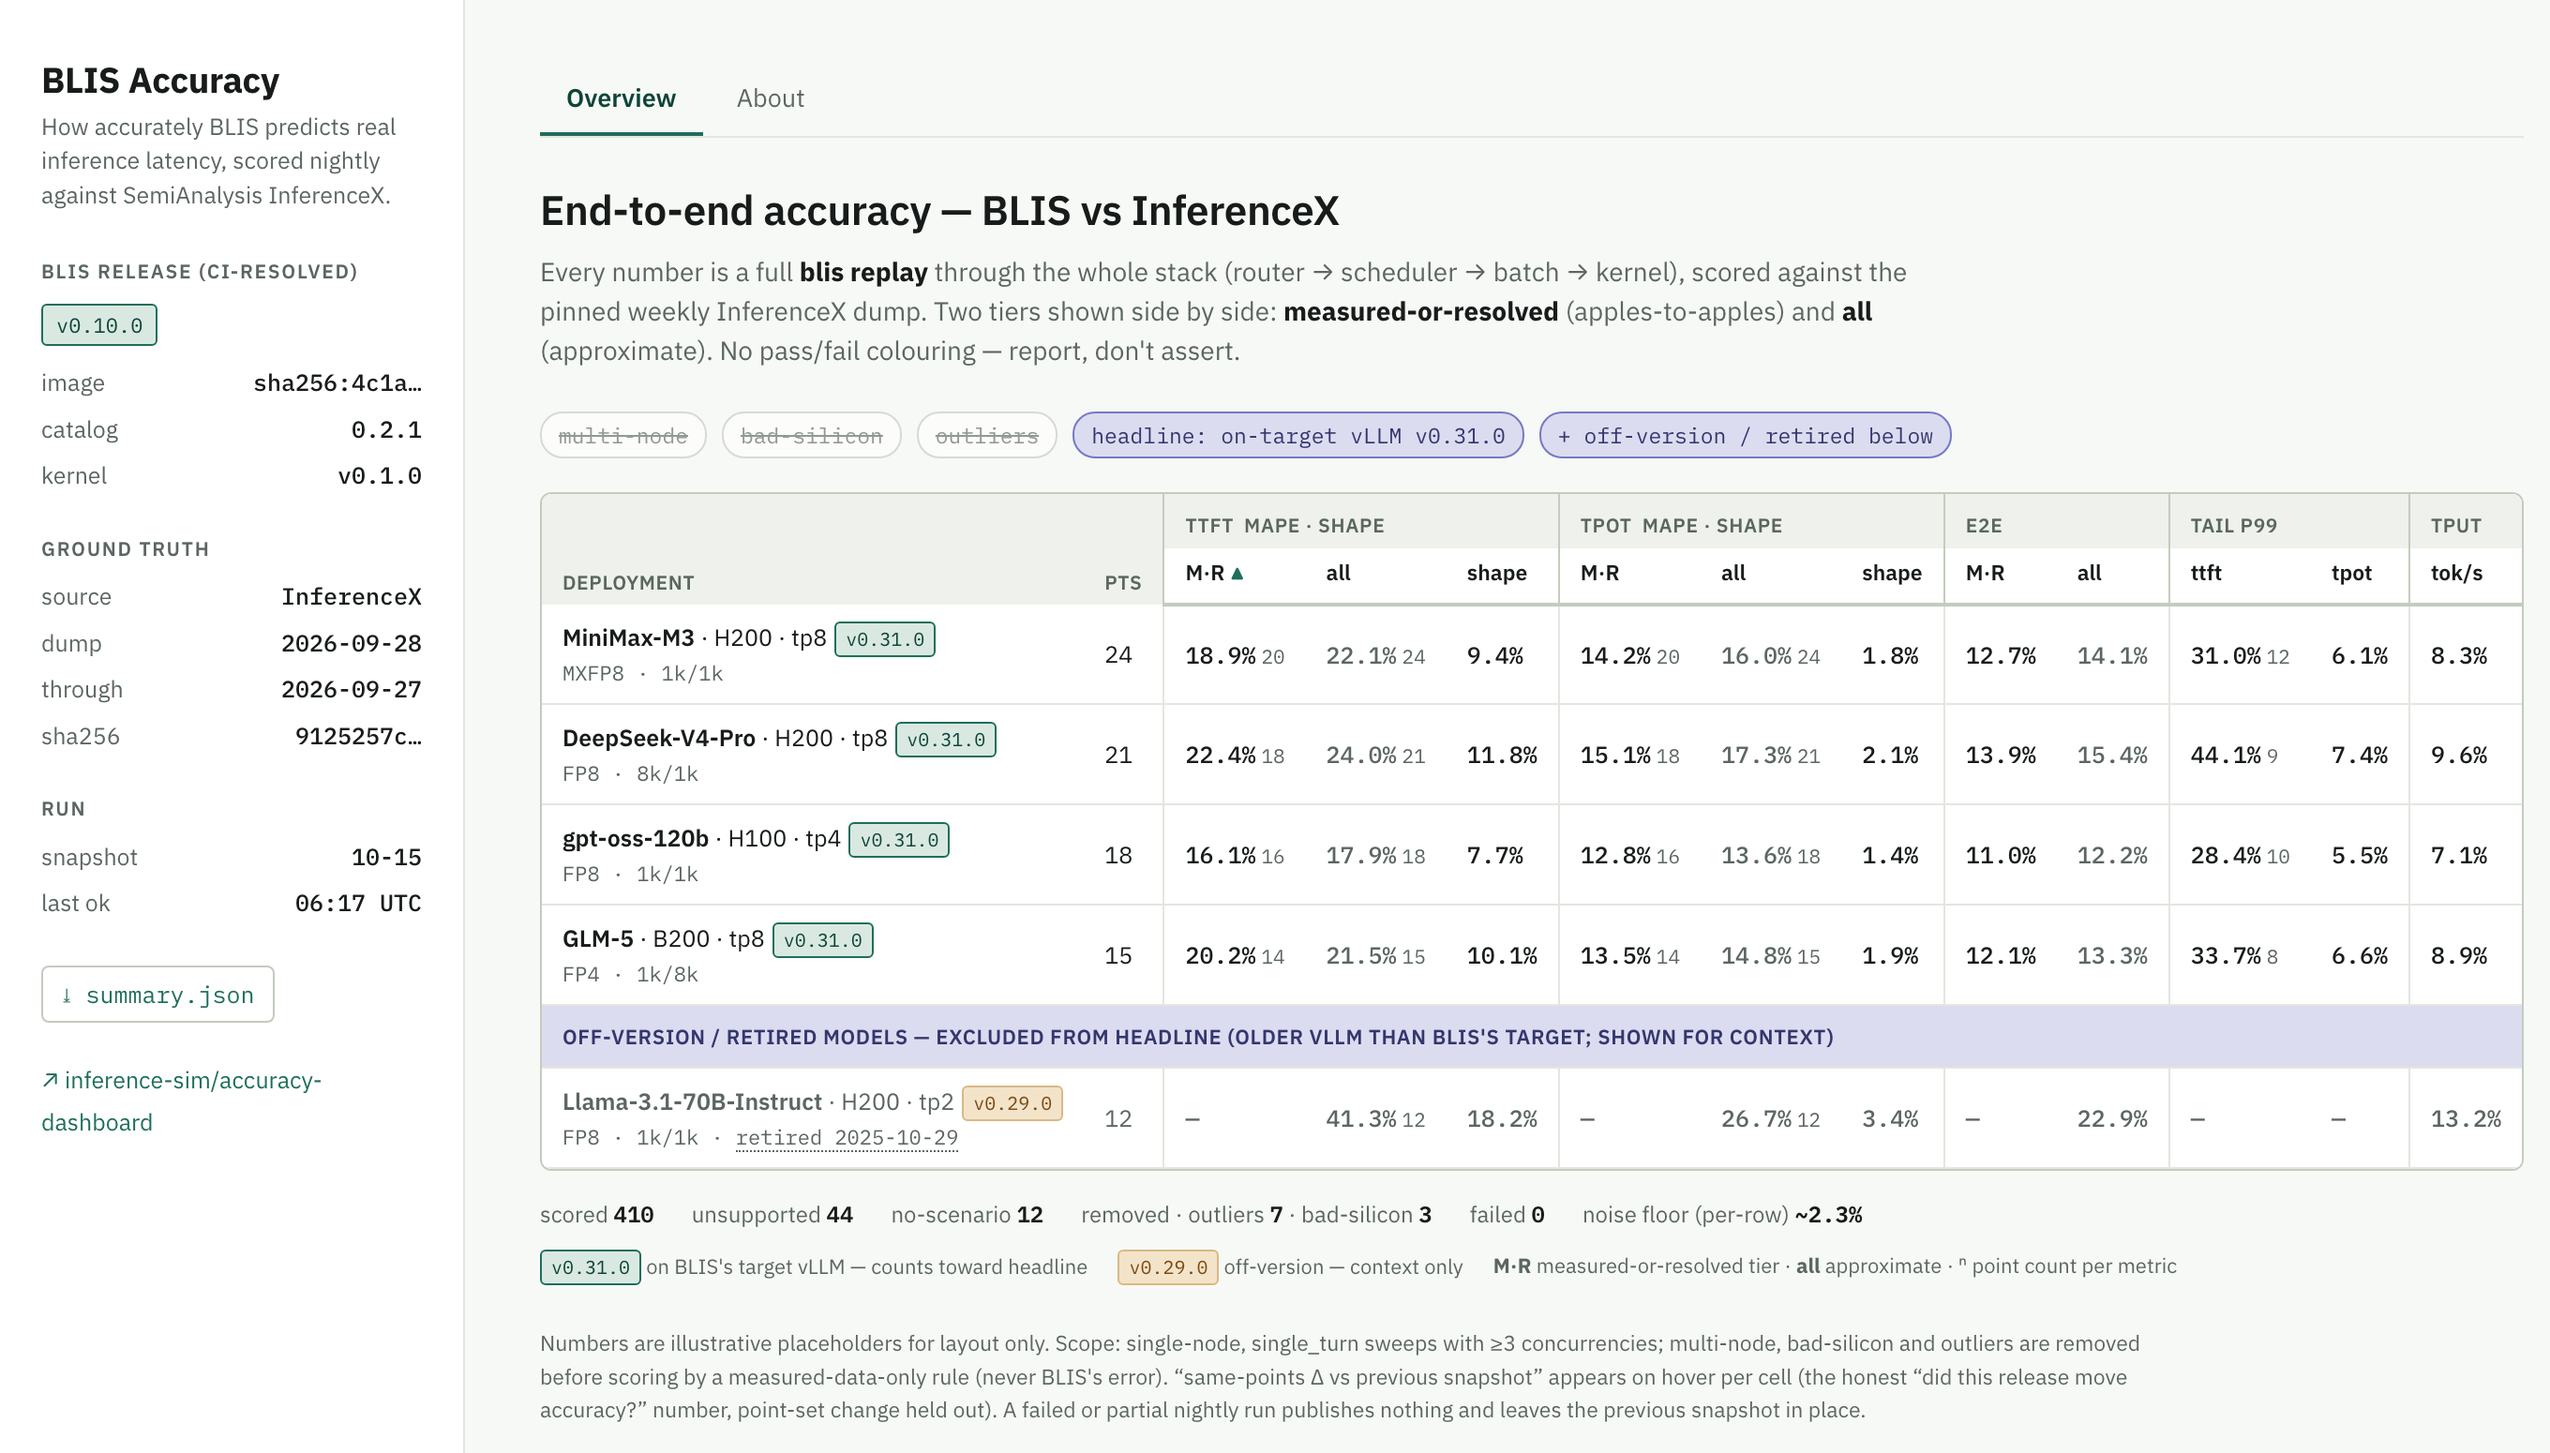
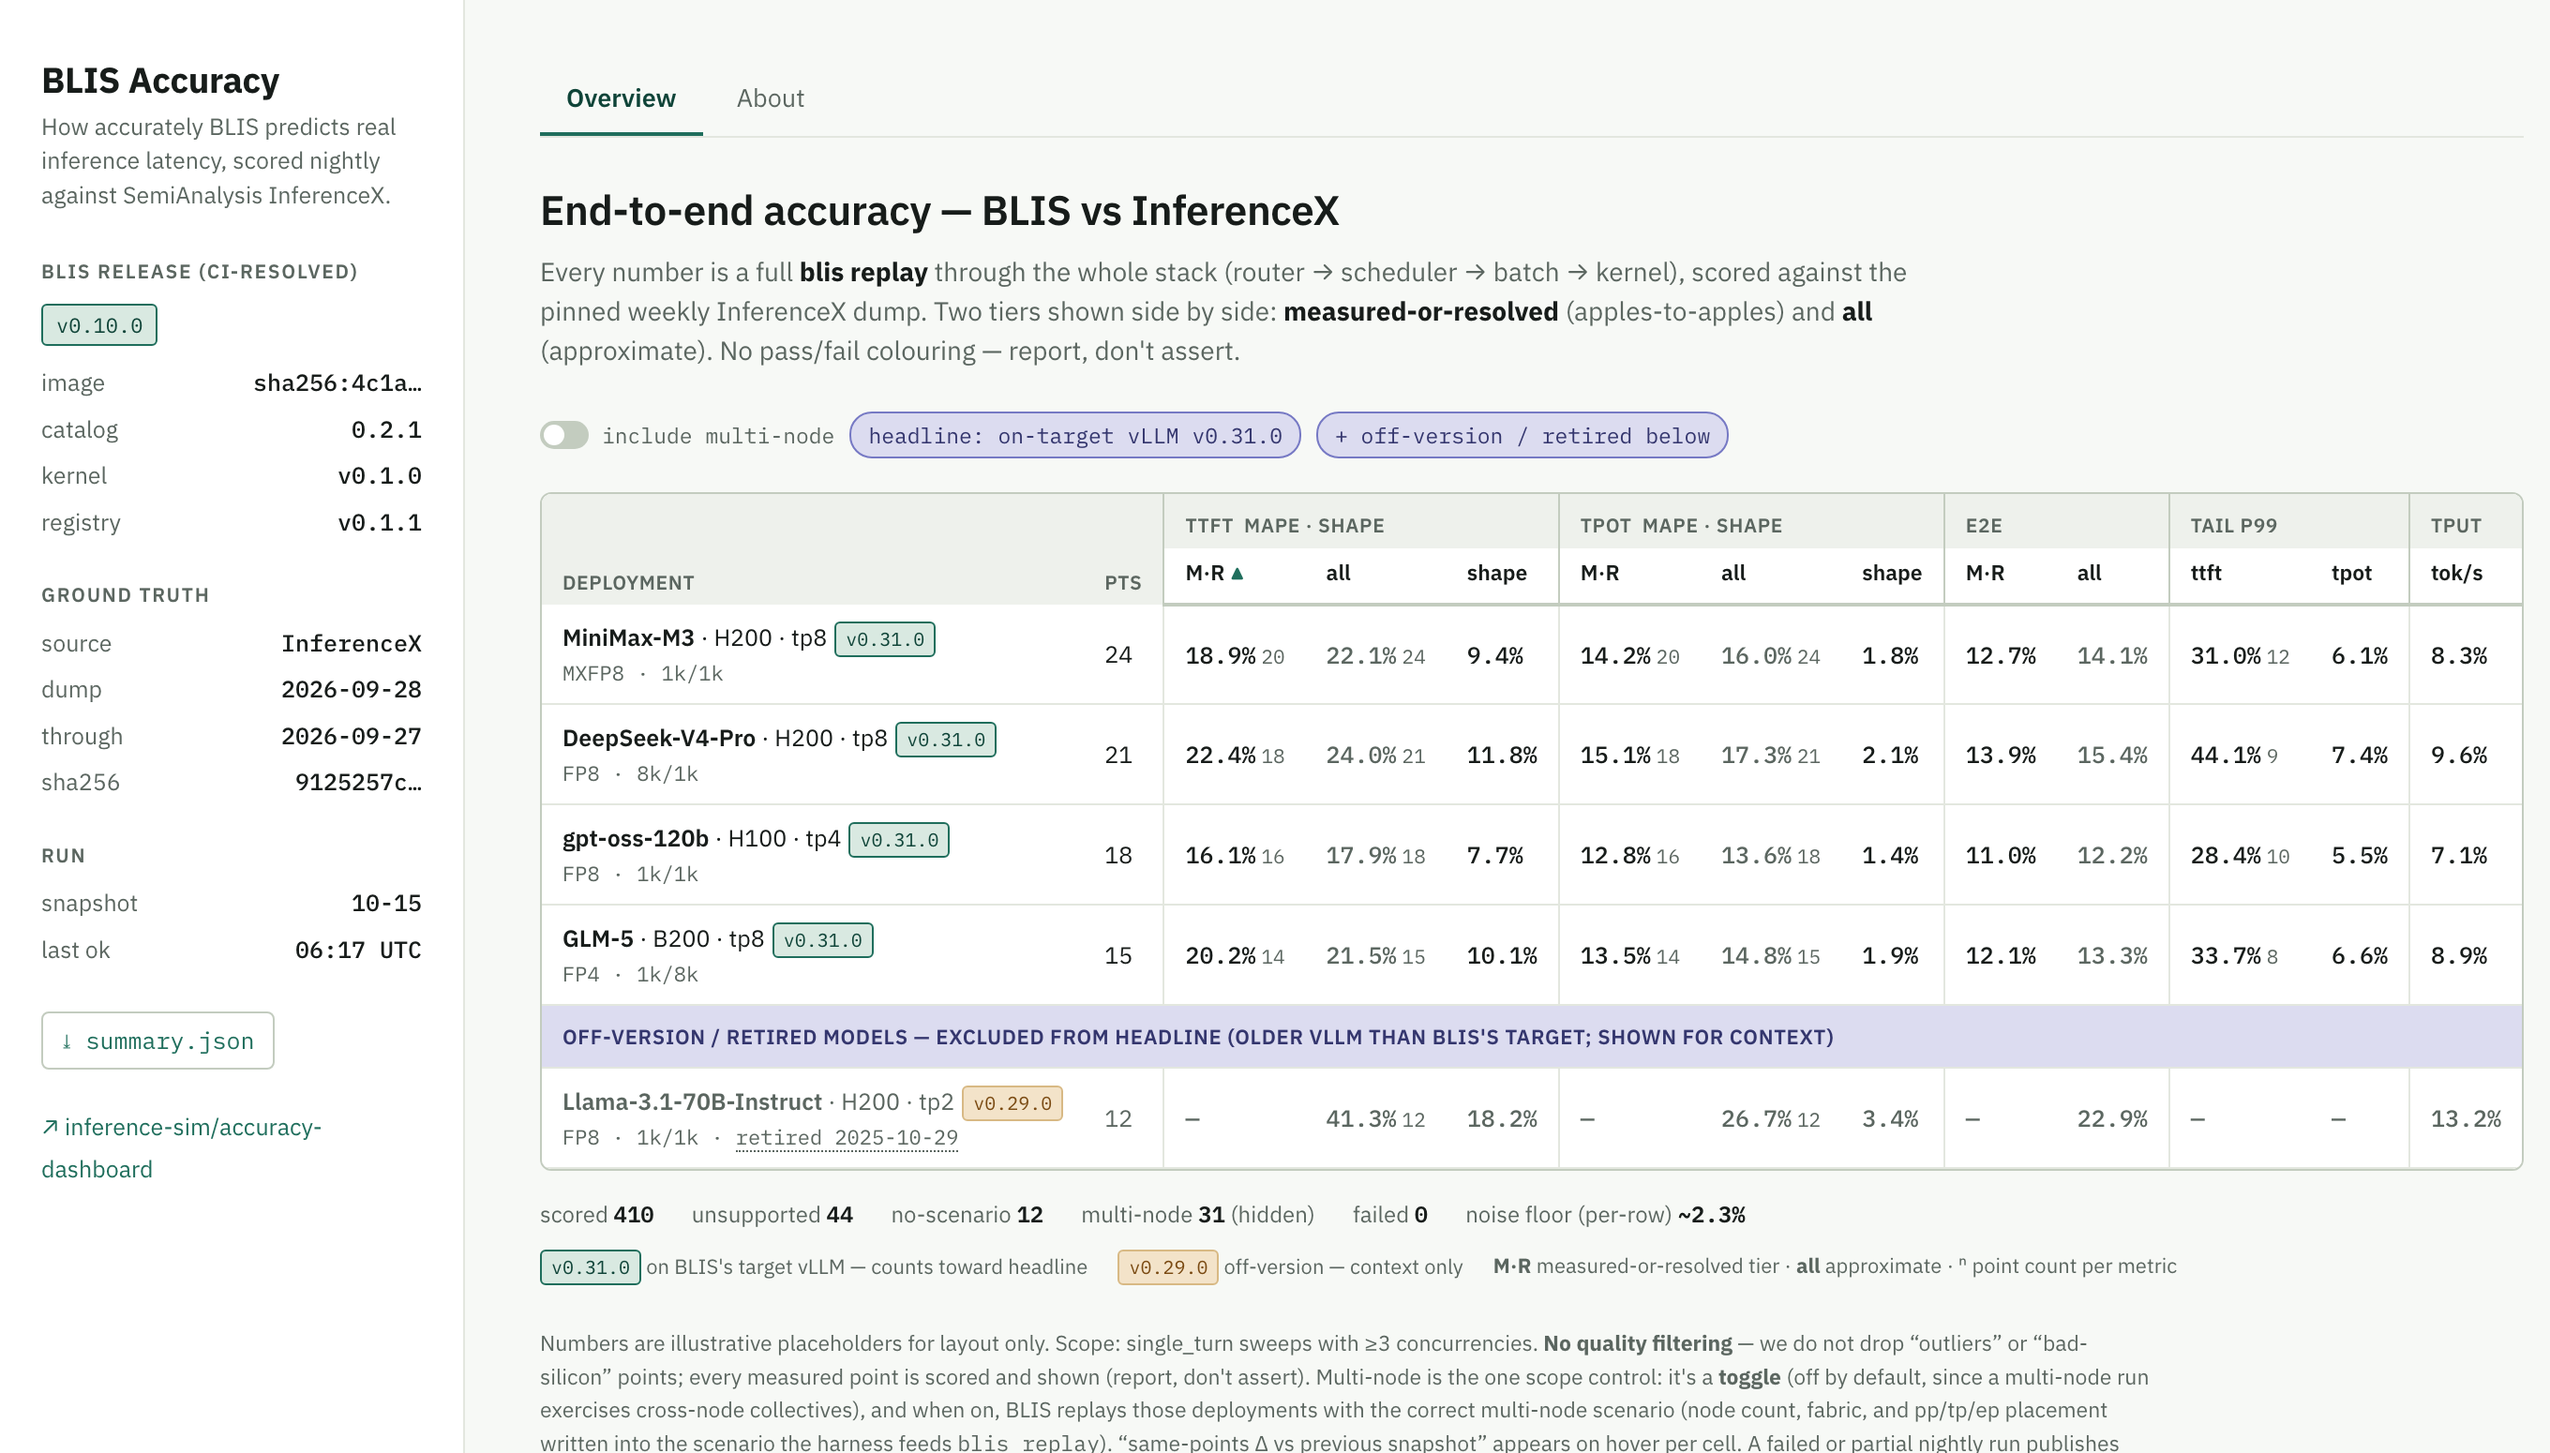
docs: drop quality filters, add registry version, multi-node toggle
Per discussion: remove "outliers"/"bad-silicon" filtering entirely (report
every measured point), add blis-registry v0.1.1 beside catalog/kernel in the
provenance rail, and make multi-node an on/off toggle (off by default) rather
than a hard exclusion. Clarify that multi-node, when on, is replayed with the
correct scenario topology (nodes/fabric/placement) the harness feeds blis replay.

diff --git a/docs/mockups/overview-v0.1.0.html b/docs/mockups/overview-v0.1.0.html
@@ -39,6 +39,13 @@ h2.viewhead{margin:0 0 6px;font-size:22px;font-weight:600;letter-spacing:-0.01em
 .chip{font-size:11.5px;font-family:var(--font-mono);padding:3px 9px;border-radius:12px;border:1px solid var(--line-strong);color:var(--muted);background:var(--panel)}
 .chip.off{text-decoration:line-through;opacity:.65}
 .chip.grp{border-color:var(--alt-line);color:var(--alt-ink);background:var(--alt-bg)}
+/* multi-node on/off toggle */
+.toggle{display:inline-flex;align-items:center;gap:7px;font-size:11.5px;font-family:var(--font-mono);color:var(--muted);cursor:default}
+.toggle .sw{width:26px;height:15px;border-radius:8px;background:var(--line-strong);position:relative;display:inline-block}
+.toggle .sw .dot{position:absolute;top:2px;left:2px;width:11px;height:11px;border-radius:50%;background:#fff}
+.toggle.on{color:var(--accent-ink)}
+.toggle.on .sw{background:var(--accent)}
+.toggle.on .sw .dot{left:13px}
 /* ---- table ---- */
 .tscroll{border:1px solid var(--line-strong);border-radius:6px;overflow:hidden;background:var(--panel)}
 table.readout{width:100%;border-collapse:collapse;font-size:12.5px;background:var(--panel)}
@@ -81,6 +88,7 @@ tr:hover td{background:#fbfdfa}
     <div class="kv" style="margin-top:10px"><span class="k">image</span><span class="v">sha256:4c1a…</span></div>
     <div class="kv"><span class="k">catalog</span><span class="v">0.2.1</span></div>
     <div class="kv"><span class="k">kernel</span><span class="v">v0.1.0</span></div>
+    <div class="kv"><span class="k">registry</span><span class="v">v0.1.1</span></div>
 
     <div class="seclabel">Ground truth</div>
     <div class="kv"><span class="k">source</span><span class="v">InferenceX</span></div>
@@ -106,9 +114,7 @@ tr:hover td{background:#fbfdfa}
     <p class="dek">Every number is a full <b>blis replay</b> through the whole stack (router → scheduler → batch → kernel), scored against the pinned weekly InferenceX dump. Two tiers shown side by side: <b>measured-or-resolved</b> (apples-to-apples) and <b>all</b> (approximate). No pass/fail colouring — report, don't assert.</p>
 
     <div class="chips">
-      <span class="chip off">multi-node</span>
-      <span class="chip off">bad-silicon</span>
-      <span class="chip off">outliers</span>
+      <span class="toggle"><span class="sw"><span class="dot"></span></span>include multi-node</span>
       <span class="chip grp">headline: on-target vLLM v0.31.0</span>
       <span class="chip grp">+ off-version / retired below</span>
     </div>
@@ -185,7 +191,7 @@ tr:hover td{background:#fbfdfa}
       <span>scored <b>410</b></span>
       <span>unsupported <b>44</b></span>
       <span>no-scenario <b>12</b></span>
-      <span>removed · outliers <b>7</b> · bad-silicon <b>3</b></span>
+      <span>multi-node <b>31</b> (hidden)</span>
       <span>failed <b>0</b></span>
       <span>noise floor (per-row) <b>~2.3%</b></span>
     </div>
@@ -196,7 +202,7 @@ tr:hover td{background:#fbfdfa}
       <span><b>M·R</b> measured-or-resolved tier · <b>all</b> approximate · <span class="n" style="margin:0">ⁿ</span> point count per metric</span>
     </div>
 
-    <p class="foot">Numbers are illustrative placeholders for layout only. Scope: single-node, single_turn sweeps with ≥3 concurrencies; multi-node, bad-silicon and outliers are removed before scoring by a measured-data-only rule (never BLIS's error). “same-points Δ vs previous snapshot” appears on hover per cell (the honest “did this release move accuracy?” number, point-set change held out). A failed or partial nightly run publishes nothing and leaves the previous snapshot in place.</p>
+    <p class="foot">Numbers are illustrative placeholders for layout only. Scope: single_turn sweeps with ≥3 concurrencies. <b>No quality filtering</b> — we do not drop “outliers” or “bad-silicon” points; every measured point is scored and shown (report, don't assert). Multi-node is the one scope control: it's a <b>toggle</b> (off by default, since a multi-node run exercises cross-node collectives), and when on, BLIS replays those deployments with the correct multi-node scenario (node count, fabric, and pp/tp/ep placement written into the scenario the harness feeds <span class="mono">blis replay</span>). “same-points Δ vs previous snapshot” appears on hover per cell. A failed or partial nightly run publishes nothing and leaves the previous snapshot in place.</p>
   </main>
 </div>
 </body>
